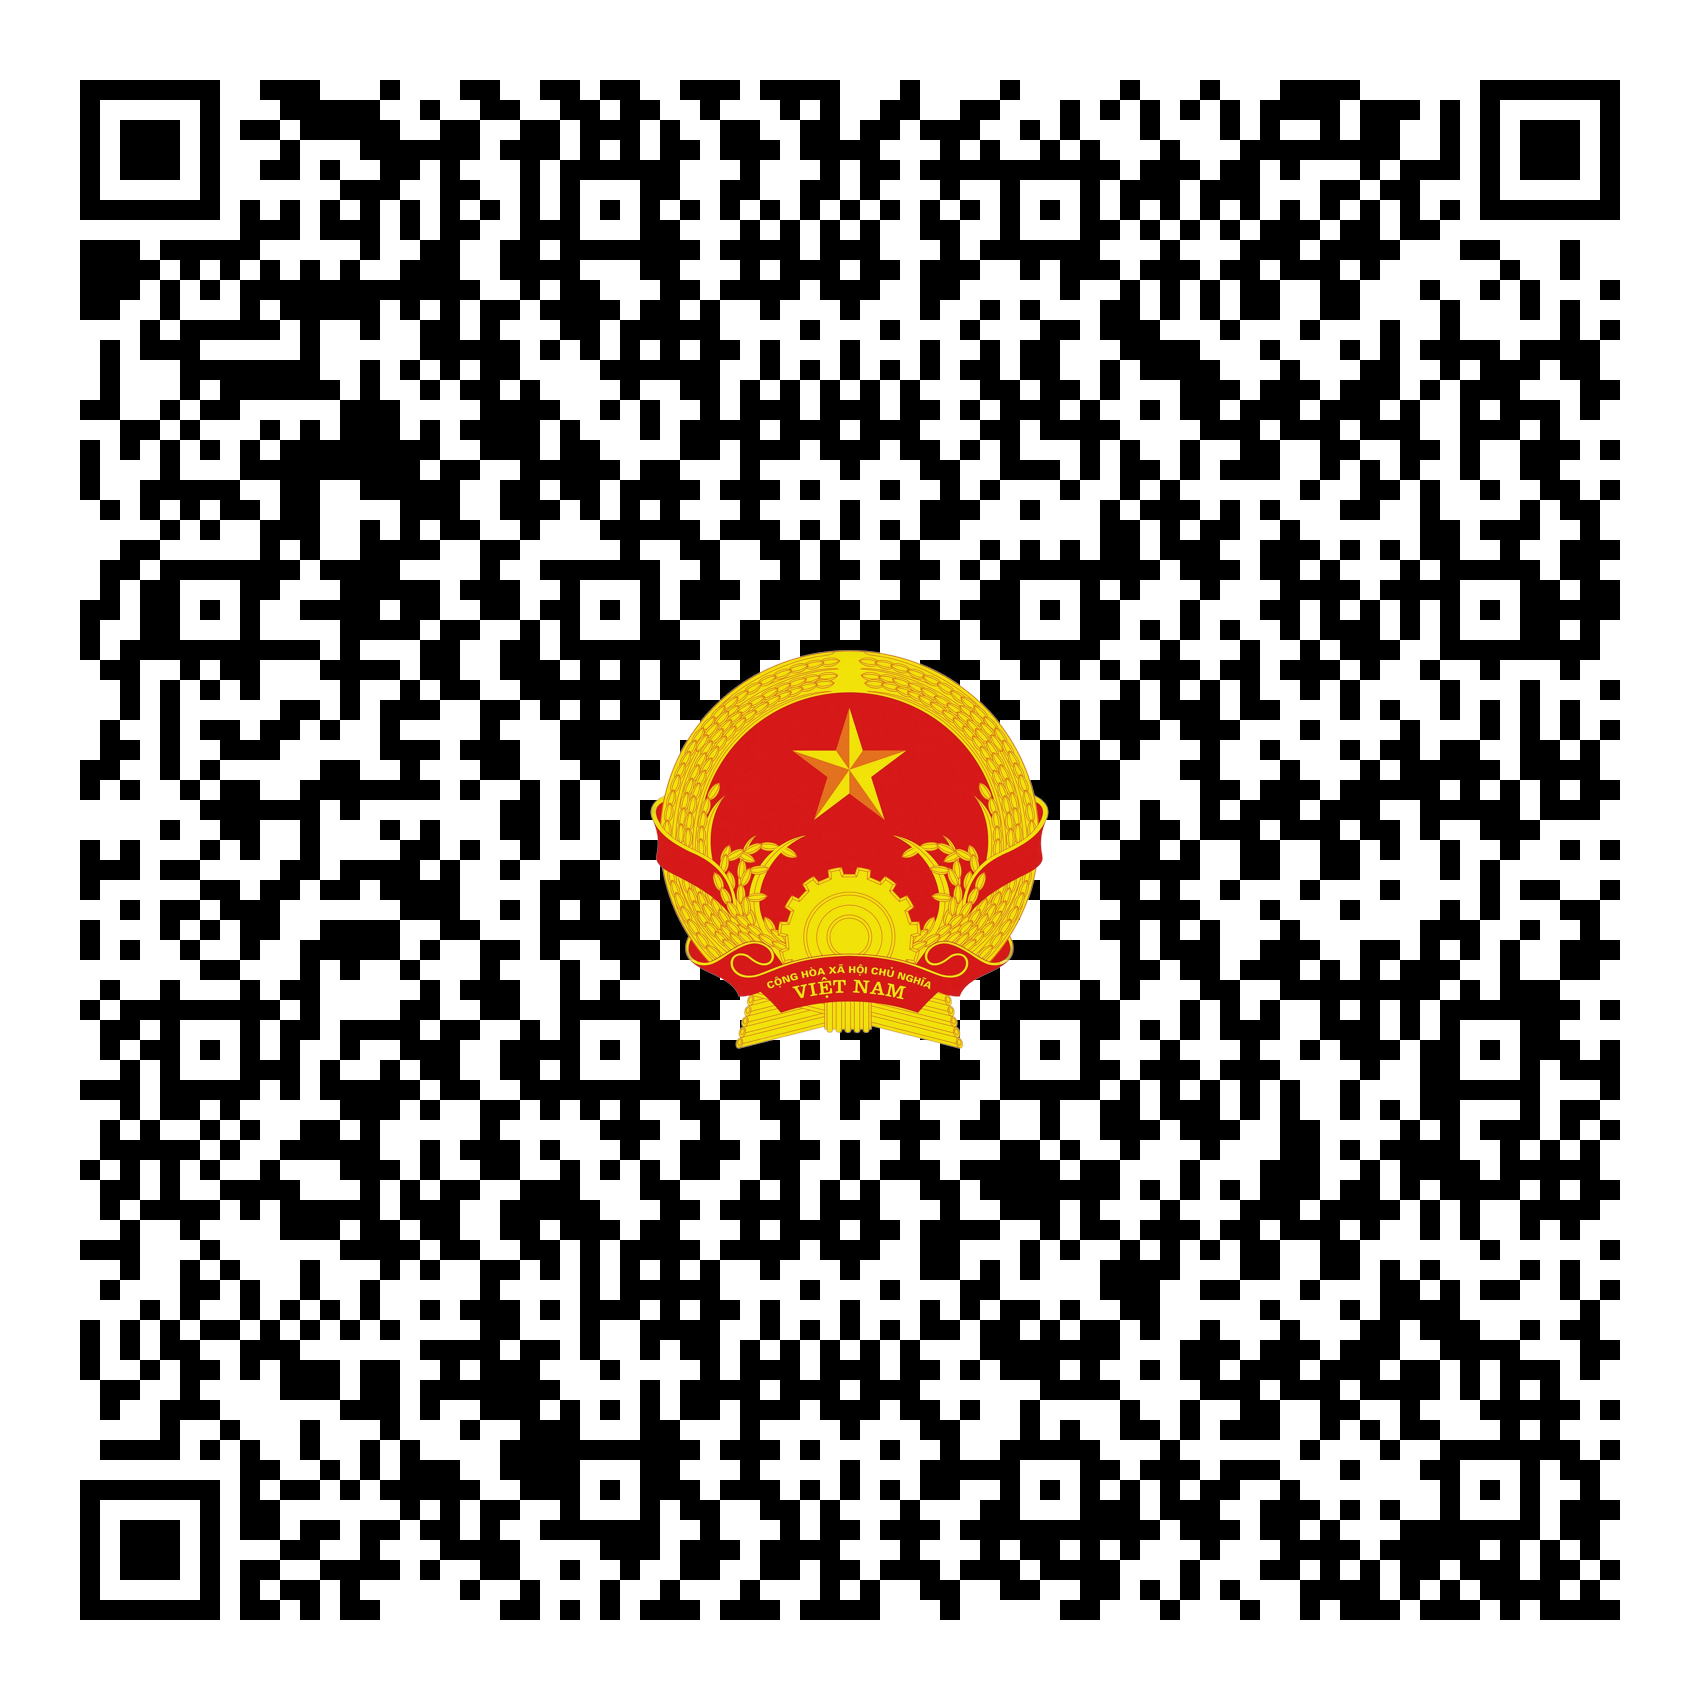
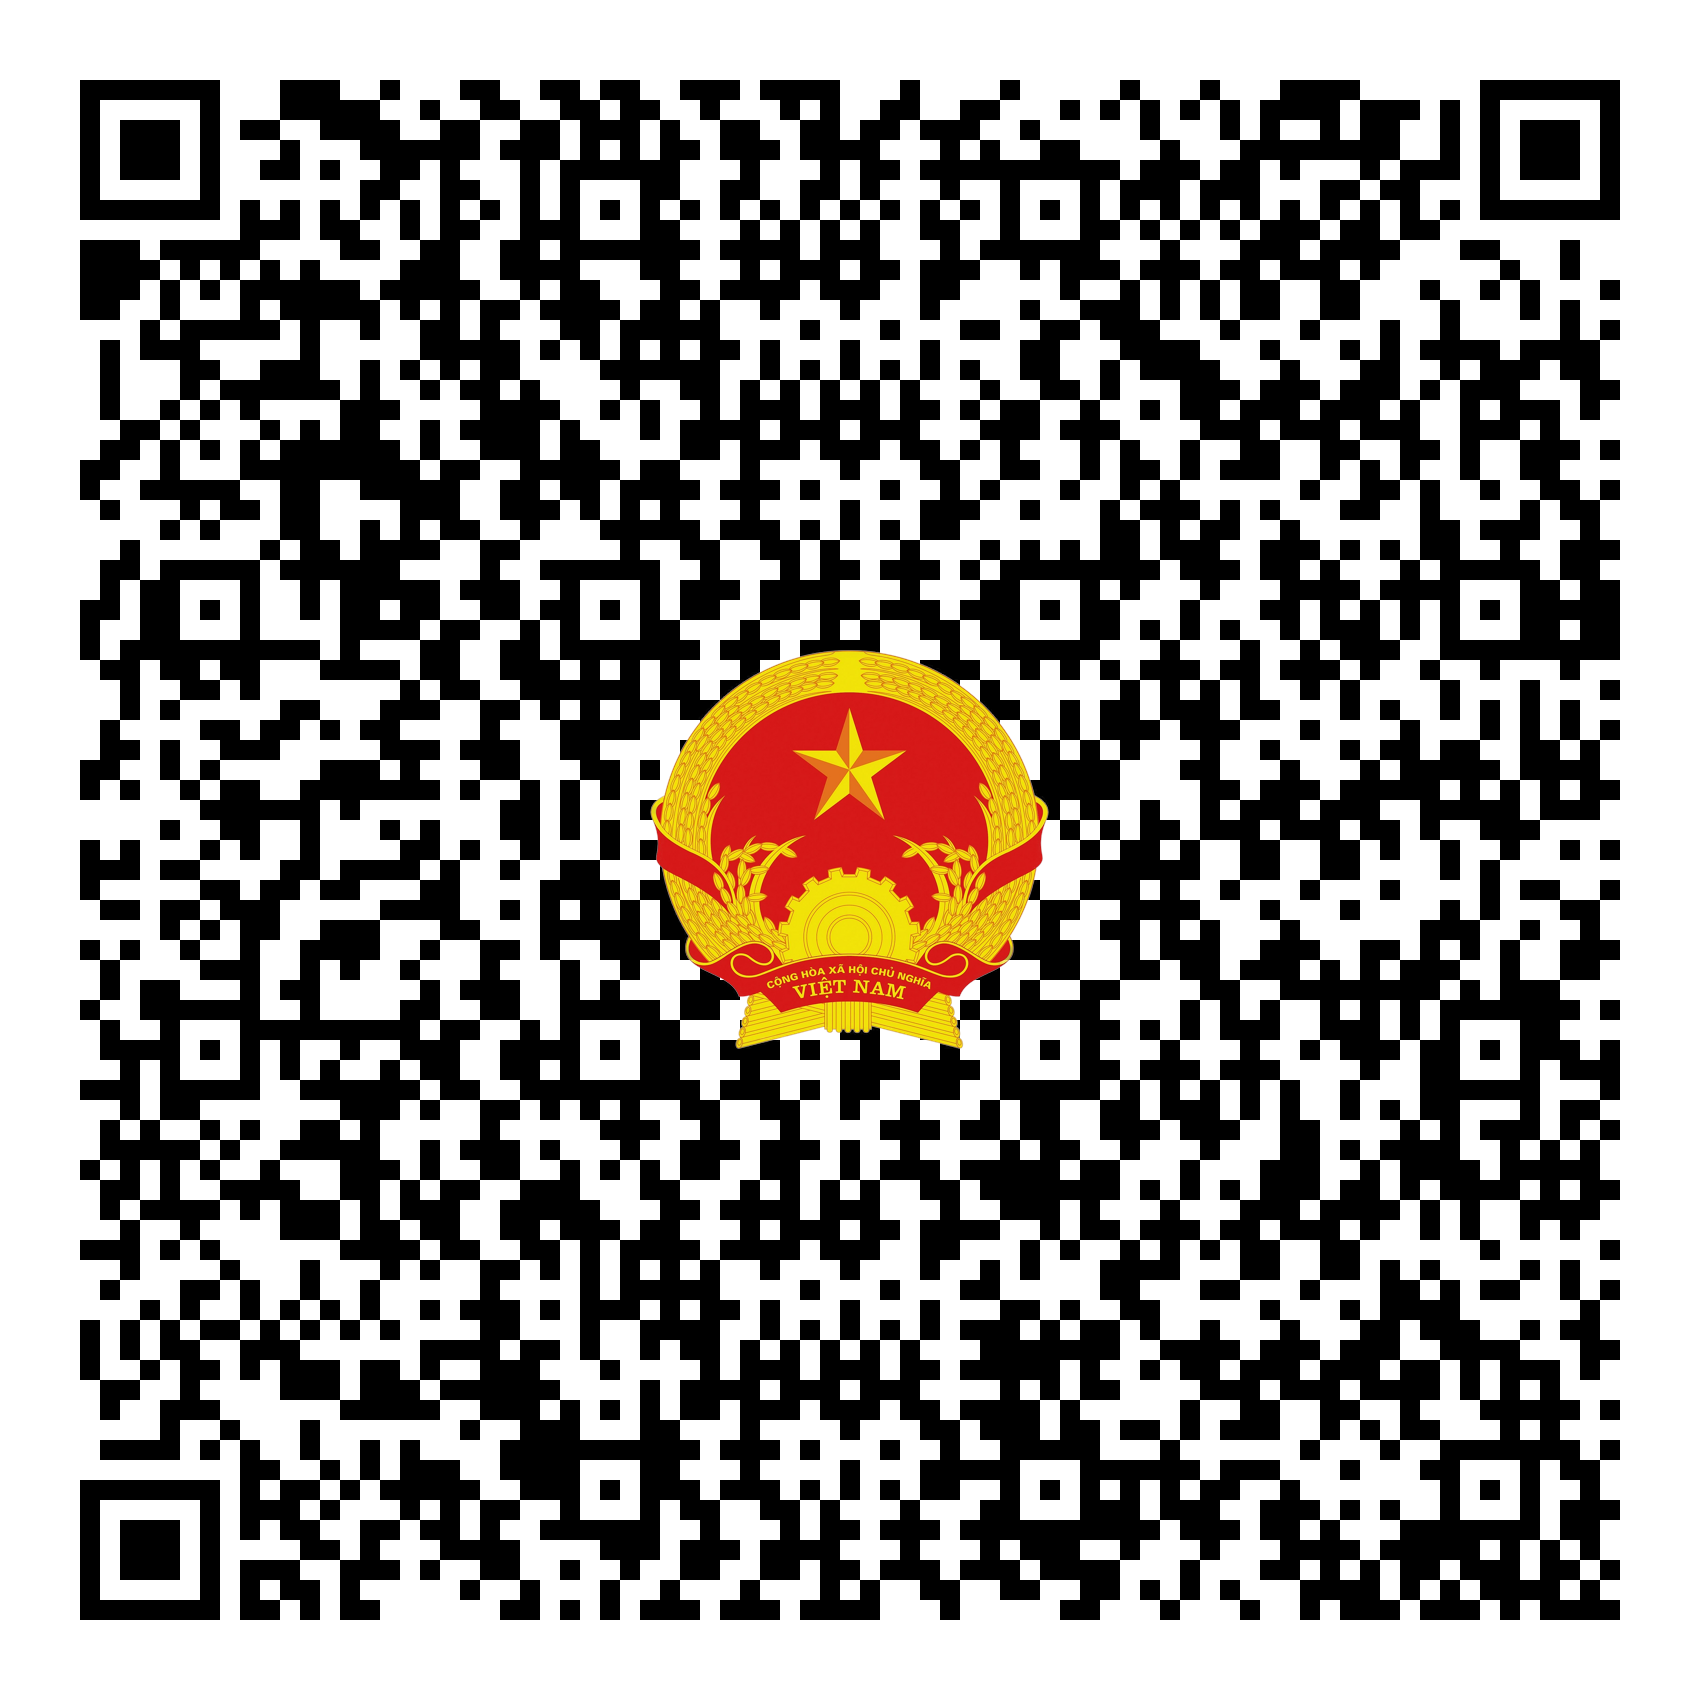
cập nhật

diff --git a/index.html b/index.html
@@ -49,7 +49,14 @@
             <a href="https://dichvucong.binhdinh.gov.vn/dichvucong/bothutuc?AllThuTuc=0&maThuTuc=&thutuc=0&numCQ=21&dieuKienMoRong=&maCoQuan=btt_cap_xa&maLinhVuc=G99-LT01&maMucDo=&maCapTT=1&doiTuongNop=&tokenCsrf=86b08e10d214f45fee0991755ba3b763-c5e24ab524cc22169d889992bf5f3fd3"
                 target="_blank">Hộ Tịch - Đăng Ký Thường Trú - Quản Lý Thu, Sổ - Thẻ</a>
         </li>
-
+        <li>
+            <a href="https://dichvucong.binhdinh.gov.vn/dichvucong/bothutuc?AllThuTuc=0&maThuTuc=&thutuc=0&numCQ=21&dieuKienMoRong=&maCoQuan=btt_cap_xa&maLinhVuc=NCN&maMucDo=&maCapTT=1&doiTuongNop=&tokenCsrf=98ab64325b8b91f8dd9795066c061f46-1eba62d4999739b5b4db6aa7b2a2fa81"
+                target="_blank">Nuôi Con Nuôi</a>
+        </li>
+        <li>
+            <a href="https://dichvucong.binhdinh.gov.vn/dichvucong/bothutuc?AllThuTuc=0&maThuTuc=&thutuc=0&numCQ=21&dieuKienMoRong=&maCoQuan=btt_cap_xa&maLinhVuc=HGCS&maMucDo=&maCapTT=1&doiTuongNop=&tokenCsrf=09d56f23596dc50556b66bd2e2bfd7ea-4e99e99a4d365e1a3e1198ff05e1d641"
+                target="_blank">Phổ Biến Giáo Dục Pháp Luật</a>
+        </li>
     </ul>
     <p>📌 Nhấn vào để chọn một lĩnh vực.</p>
 </body>

diff --git a/a.py b/a.py
@@ -3,7 +3,7 @@ from PIL import Image
 
 
 # URL trỏ đến trang HTML chứa danh sách liên kết
-data = "https://ubndcattuong.github.io/vanhoatheduc/"  # Thay bằng URL online nếu đã upload
+data = "https://ubndcattuong.github.io/tuphap/"  # Thay bằng URL online nếu đã upload
 
 # Tạo mã QR
 qr = qrcode.QRCode(
